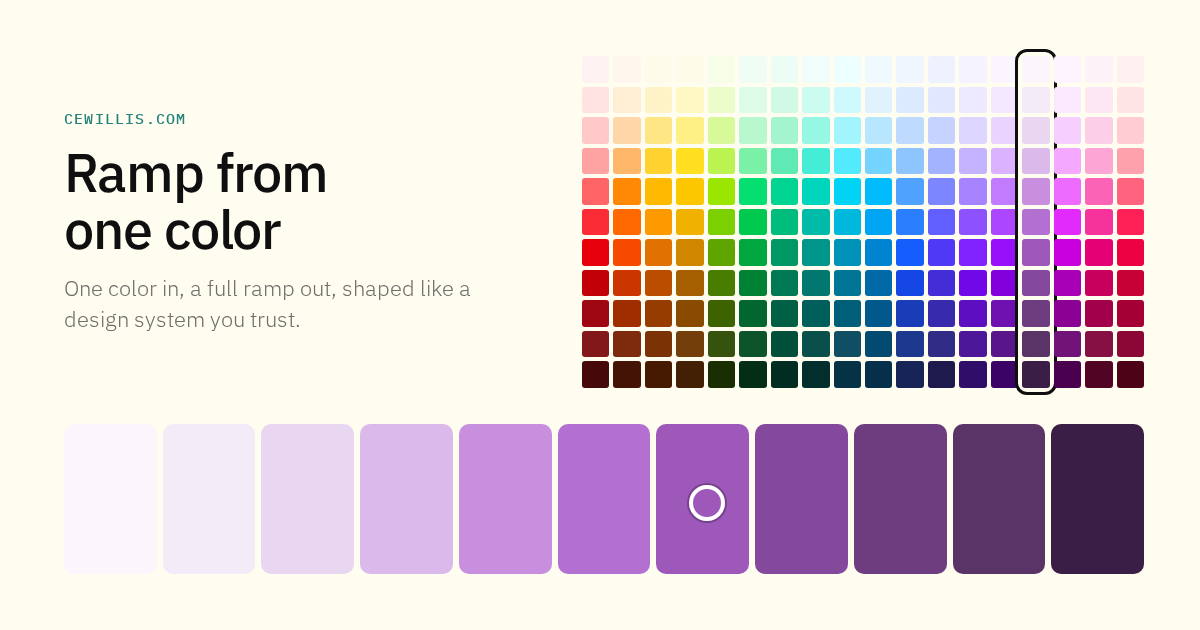
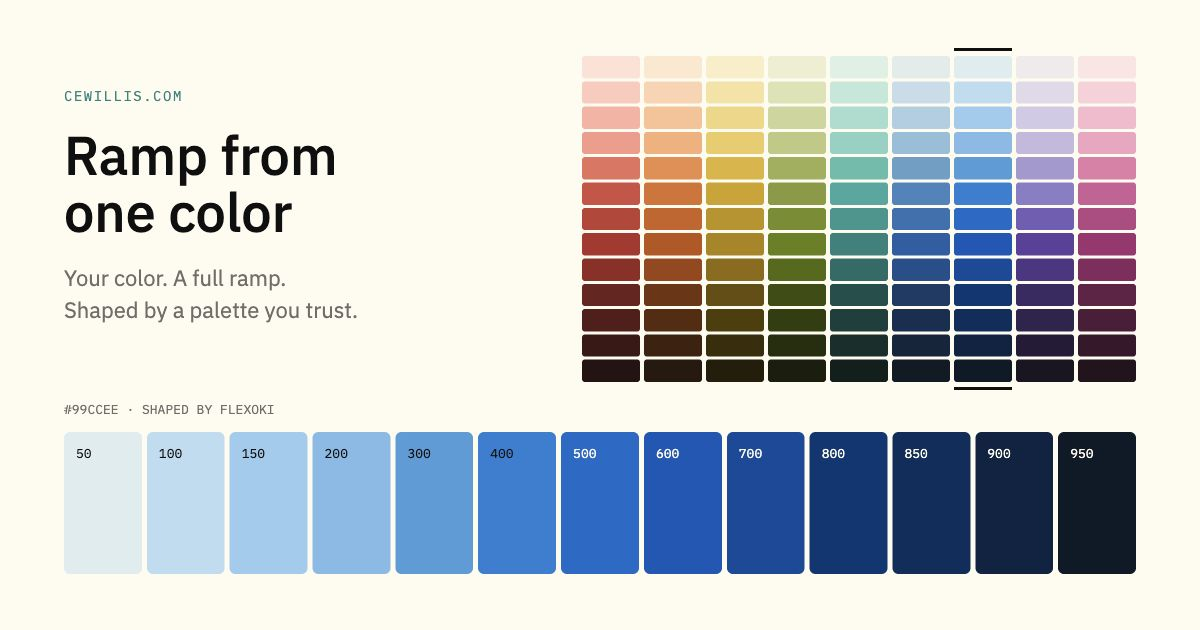
fix: opengraph and teaser

diff --git a/color-ramp.html b/color-ramp.html
@@ -10,12 +10,12 @@
 <meta property="og:url" content="https://cewillis.com/color-ramp.html">
 <meta property="og:site_name" content="Chris Willis">
 <meta property="og:title" content="Ramp from one color">
-<meta property="og:description" content="One color in, a full ramp out, shaped like Flexoki, Tailwind, Radix or nine others, with light and dark steps for interface design.">
+<meta property="og:description" content="Turn a brand color into light and dark steps shaped by Flexoki, Tailwind, Radix or your own palette. Check text contrast and export CSS, Tailwind or design tokens.">
 <meta property="og:image" content="https://cewillis.com/og-color-ramp.png">
 <meta property="og:image:type" content="image/png">
 <meta property="og:image:width" content="1200">
 <meta property="og:image:height" content="630">
-<meta property="og:image:alt" content="A color ramp of eleven steps generated from one orange-red color, shaped like Tailwind v4.">
+<meta property="og:image:alt" content="A blue ramp generated from one color, shown beside Flexoki’s color family with bars marking the new ramp.">
 <meta name="twitter:card" content="summary_large_image">
 <meta name="twitter:title" content="Ramp from one color">
 <meta name="twitter:description" content="One color in, a full ramp out, shaped like a design system you trust.">
@@ -350,7 +350,7 @@
     <p><b>Through color</b> shapes the ramp around your color. Gamut limits, neutral substitution and shared anchor steps can change or omit an input; the result reports those changes. <b>Fits the palette</b> tones a color down if it is more vivid than the palette ever goes at that hue, so the ramp matches its siblings.</p>
     <p><b>Your own palette.</b> Choose <b>Import your palette</b> in the <b>Shape it like</b> menu, then paste or upload your color tokens. It needs at least four color ramps that share the same step names. The page validates the colors and keeps the palette in this browser only.</p>
     <p>Reference-surface hold-outs reconstruct a hidden palette ramp from its neighbors. This tool modifies that surface around your inputs, so those tests do not establish accuracy for the generated result. Reported input differences use ΔE OK ×100; zero means the same internal color. Hex exports round to 8-bit sRGB; use CSS oklch for higher precision and wide-gamut colors.</p>
-    <p>For a deeper look at a palette's shape, open <a href="color-intelligence.html">Palette topology</a>. This page was prompted by <a href="https://meodai.github.io/dittoTones/">dittoTones</a> by David Aerne, which builds ramps from one color by matching the closest ramps in a reference system.</p>
+    <p>For a deeper look at a palette's shape, open <a href="color-intelligence.html">Palette topology</a>. For a similar approach and more creative color explorations, check out <a href="https://meodai.github.io/dittoTones/">dittoTones</a> and other tools by David Aerne.</p>
   </section>
 
   <footer>Built on the Palette topology engine. Palettes belong to their authors; see each one's license.</footer>

diff --git a/reviews/color-ramp/social-preview.html b/reviews/color-ramp/social-preview.html
@@ -1,0 +1,9 @@
+<!doctype html>
+<html lang="en"><meta charset="utf-8"><title>Ramp social preview</title>
+<link href="https://fonts.googleapis.com/css2?family=IBM+Plex+Sans:wght@300;400;500&family=IBM+Plex+Mono&display=swap" rel="stylesheet">
+<style>
+*{box-sizing:border-box}body{margin:0;background:#FFFCF0;color:#100F0F;font-family:'IBM Plex Sans',sans-serif}.card{width:1200px;height:630px;padding:56px 64px;position:relative}.copy{width:450px;padding-top:30px}.eyebrow{font:14px 'IBM Plex Mono',monospace;letter-spacing:1.5px;color:#24837B}h1{font-size:54px;line-height:1.05;font-weight:500;margin:22px 0}p{font-size:22px;line-height:1.45;color:#6F6E69;margin:0}.family{position:absolute;left:582px;top:56px;width:554px;height:326px;display:grid;gap:4px}.col{display:grid;gap:3px;position:relative}.cell{border-radius:3px}.mine:before,.mine:after{content:'';position:absolute;left:0;right:0;height:3px;background:#100F0F}.mine:before{bottom:calc(100% + 5px)}.mine:after{top:calc(100% + 5px)}.ramp{display:flex;gap:5px;position:absolute;left:64px;right:64px;top:432px;height:142px}.sw{flex:1;border-radius:6px;position:relative}.step{position:absolute;top:12px;left:12px;font:13px 'IBM Plex Mono',monospace}.bottom,.marks{display:none}.label{position:absolute;top:400px;left:64px;font:13px 'IBM Plex Mono',monospace;color:#6F6E69}iframe{position:absolute;left:-10000px;width:1400px;height:1000px}
+</style>
+<div class="card"><div class="copy"><div class="eyebrow">CEWILLIS.COM</div><h1>Ramp from<br>one color</h1><p>Your color. A full ramp.<br>Shaped by a palette you trust.</p></div><div id="family"></div><div class="label">#99CCEE · SHAPED BY FLEXOKI</div><div id="ramp" class="ramp"></div></div>
+<iframe title="Source application" src="../../color-ramp.html?social=20261101#c-99ccee.flexoki.through" onload="const d=this.contentDocument;document.querySelector('#family').append(d.querySelector('#family .family').cloneNode(true));document.querySelector('#ramp').innerHTML=d.querySelector('#ramp').innerHTML"></iframe>
+</html>

diff --git a/index.html b/index.html
@@ -553,7 +553,7 @@
         </picture>
         <figcaption>
           <span class="title">Ramp from one color</span>
-          <span class="blurb">A simpler spinoff of the palette map. Start with one color, such as a brand color, and get a full ramp of light and dark steps shaped like Tailwind, Radix, Flexoki, seven other design systems or your own imported palette. It estimates how close each step is to what that system's designers would have picked, shows which steps pass for text, and exports CSS, Tailwind or design tokens.</span>
+          <span class="blurb">Turn a brand color into a ramp of light and dark steps, shaped by Tailwind, Radix, Flexoki or your own imported palette. Add a second color to guide the result, compare the ramp with its reference family, and check text contrast on light and dark backgrounds. Export CSS, Tailwind or design tokens, or share a link to your ramp.</span>
         </figcaption>
       </figure>
     </a>
